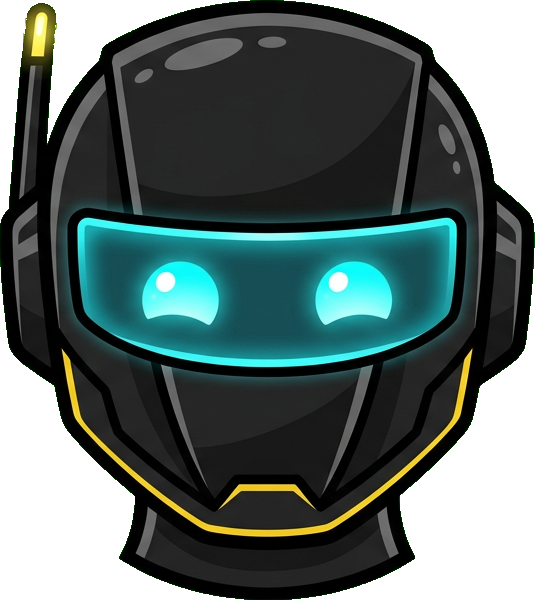
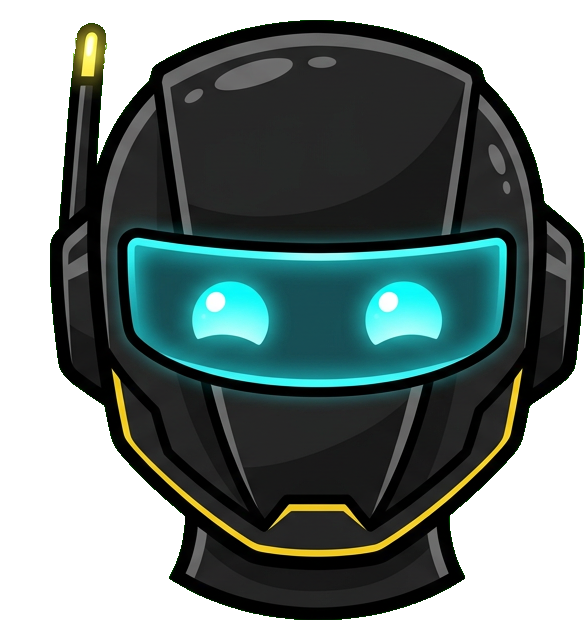
humanized delivery: [beat] pause system, antenna-vibration robot (3-frame, union-canvas aligned), endcard moved above sticker zone w/ translucent box, ep001 rewritten with beats, BRAINSTORM_VAULT (25 ideas), align_frames tool

diff --git a/src/tts.py b/src/tts.py
@@ -1,9 +1,17 @@
 """Per-character TTS via edge-tts + word boundaries -> voiceover.mp3 + timeline.json.
 
+HUMANIZING DELIVERY (boss spec: "voice too robotic — needs unexpected pauses,
+long/short sounds"):
+- scripts may write [beat] inside any line -> a natural 0.28-0.48s pause is
+  inserted at that exact point (mid-sentence stops feel human)
+- ellipses (…) and stretched spellings ("ohhh", "waaaait") also work —
+  edge-tts interprets them naturally
+- per-line emotion shifts rate/pitch on top of the character's base voice
+
 timeline.json = [{speaker, start, end, text, words:[{w, start, end}]}]
-Every downstream stage (captions, stickers, render) reads this one clock.
+Every downstream stage (captions, stickers, render, strict QA) reads this clock.
 """
-import asyncio, json, subprocess, sys
+import asyncio, json, random, subprocess, sys
 from pathlib import Path
 
 sys.path.insert(0, str(Path(__file__).resolve().parent))
@@ -11,7 +19,7 @@ import config
 import edge_tts
 
 TICK = 1e7  # edge-tts offsets are 100ns ticks
-GAP_S = 0.28  # breathing room between speakers (feels human, not machine-gun)
+GAP_S = 0.28  # breathing room between speakers
 
 
 def _run(cmd):
@@ -27,11 +35,16 @@ def _dur(path):
     return float(json.loads(p.stdout)["format"]["duration"])
 
 
+def _silence(dur, path):
+    _run(["ffmpeg", "-y", "-f", "lavfi", "-i", "anullsrc=r=24000:cl=mono",
+          "-t", f"{dur:.2f}", "-b:a", "48k", str(path)])
+
+
 def _shift(base, delta, unit, clamp):
     """'+6%' + '+18%' -> '+24%'; '-2Hz' + '+25Hz' -> '+23Hz'"""
     b, d = int(base.rstrip(unit)), int(delta.rstrip(unit))
     v = max(-clamp, min(clamp, b + d))
-    return f"{v:+d}%".replace("%", unit) if unit == "Hz" else f"{v:+d}%"
+    return f"{v:+d}{unit}"
 
 
 async def _synth_line(text, voice, rate, pitch, out_path):
@@ -53,7 +66,7 @@ def synth_episode(lines, workdir, lang="en"):
     """lines = [{speaker, text, emotion?}] -> (voice.mp3, timeline.json)."""
     workdir = Path(workdir); workdir.mkdir(parents=True, exist_ok=True)
     swaps = config.LANG_SWAPS.get(lang, {})
-    timeline, parts = [], []
+    timeline, per_line = [], []
     t_cursor = 0.15
     for i, line in enumerate(lines):
         sid = line["speaker"]
@@ -66,42 +79,54 @@ def synth_episode(lines, workdir, lang="en"):
         rate = _shift(char["rate"], emo_rate, "%", clamp=50)
         pitch = _shift(char["pitch"], emo_pitch, "Hz", clamp=60)
         print(f"[tts] line {i + 1:02d} {sid:<8} -> {voice} "
-              f"rate={rate} pitch={pitch} emo={line.get('emotion', 'neutral')}")
-        mp3 = workdir / f"line_{i:02d}.mp3"
-        words = asyncio.run(_synth_line(
-            line["text"], voice, rate, pitch, mp3))
-        d = _dur(mp3)
+              f"emo={line.get('emotion', 'neutral')}")
+        raw = line["text"]
+        segs = [s.strip() for s in raw.split("[beat]") if s.strip()]
+        line_words, seg_cursor, entries = [], 0.0, []
+        for k, seg in enumerate(segs):
+            mp3 = workdir / f"line_{i:02d}_{k:02d}.mp3"
+            words = asyncio.run(_synth_line(seg, voice, rate, pitch, mp3))
+            d = _dur(mp3)
+            line_words += [{"w": w["w"],
+                            "start": round(t_cursor + seg_cursor + w["start"], 3),
+                            "end": round(t_cursor + seg_cursor + w["end"], 3)}
+                           for w in words]
+            entries.append(mp3)
+            seg_cursor += d
+            if k < len(segs) - 1:  # [beat] = humanizing mid-sentence pause
+                gap = random.uniform(0.28, 0.48)
+                sil = workdir / f"beat_{i:02d}_{k:02d}.mp3"
+                _silence(gap, sil)
+                entries.append(sil)
+                seg_cursor += gap
+        per_line.append(entries)
         timeline.append({
-            "speaker": sid, "name": char["name"], "text": line["text"],
-            "start": round(t_cursor, 3), "end": round(t_cursor + d, 3),
-            "words": [{"w": w["w"], "start": round(t_cursor + w["start"], 3),
-                       "end": round(t_cursor + w["end"], 3)} for w in words],
+            "speaker": sid, "name": char["name"],
+            "text": raw.replace("[beat] ", "").replace("[beat]", ""),
+            "start": round(t_cursor, 3), "end": round(t_cursor + seg_cursor, 3),
+            "words": line_words,
         })
-        parts.append(mp3)
-        t_cursor += d + GAP_S
+        t_cursor += seg_cursor + GAP_S
     total = t_cursor
 
-    # silence gap file matched to edge-tts mp3 format (24kHz mono)
     sil = workdir / "sil.mp3"
-    _run(["ffmpeg", "-y", "-f", "lavfi", "-i", "anullsrc=r=24000:cl=mono",
-          "-t", str(GAP_S), "-b:a", "48k", str(sil)])
-    lst = workdir / "concat.txt"
+    _silence(GAP_S, sil)
     rows = []
-    for i, p in enumerate(parts):
-        rows.append(f"file '{p.name}'")
-        if i < len(parts) - 1:
+    for li, lst in enumerate(per_line):
+        rows += [f"file '{e.name}'" for e in lst]
+        if li < len(per_line) - 1:
             rows.append(f"file '{sil.name}'")
-    lst.write_text("\n".join(rows))
+    (workdir / "concat.txt").write_text("\n".join(rows))
     voice_path = workdir / "voice.mp3"
-    _run(["ffmpeg", "-y", "-f", "concat", "-safe", "0", "-i", str(lst),
-          "-c", "copy", str(voice_path)])
+    _run(["ffmpeg", "-y", "-f", "concat", "-safe", "0", "-i",
+          str(workdir / "concat.txt"), "-c", "copy", str(voice_path)])
 
-    # 0.4s head + 1.0s tail so the last word + CTA don't clip
     (workdir / "timeline.json").write_text(json.dumps(
         {"total_s": round(total + 0.6, 2), "lang": lang, "lines": timeline},
         indent=1))
     print(f"[tts] {len(lines)} lines, {total:.1f}s voiceover, "
-          f"{sum(len(t['words']) for t in timeline)} word boundaries")
+          f"{sum(len(t['words']) for t in timeline)} word boundaries, "
+          f"{sum(1 for l in lines if '[beat]' in l['text'])} beat pauses")
     return voice_path, workdir / "timeline.json"
 
 

diff --git a/src/render.py b/src/render.py
@@ -157,21 +157,24 @@ def render(workdir, out_path):
                        config.LAYOUT["sticker_x"], y_expr,
                        _enable_expr(windows[sid])))
 
-    # robot narrator: bob + slide + blink (two frame variants)
+    # robot narrator: bob + slide + blink + ANTENNA VIBRATION while talking
+    # (3-frame system: open / antenna-tilt / blink — flicker = vibration)
     if has_robot:
         w = windows[R["sid"]]
         h_scaled = pos_for(ROBOT_DIR / "robot.png", R["w"])
         base_y = config.SHORT["h"] - R["bottom_gap"] - h_scaled
         bob = (f"{base_y}+{R['bob_px']}*sin(2*PI*t/{R['bob_period_s']})")
         y_expr = bob + "".join("+" + t for t in _slide_terms(w, R))
-        wen = _enable_expr(w)
-        blink = f"lt(mod(t\\,{R['blink_period_s']})\\,{R['blink_dur_s']})"
-        # open eyes except during blink slices
+        talk = _enable_expr(w)
+        flicker = (f"lt(mod(t,{R['talk_flicker_period_s']}),"
+                   f"{R['talk_flicker_on_s']})")
+        blink = f"lt(mod(t,{R['blink_period_s']}),{R['blink_dur_s']})"
         passes.append((ROBOT_DIR / "robot.png", R["w"], R["x"], y_expr,
-                       f"if({blink}\\,0\\,{wen})"))
-        # blink frame only during blink slices inside speaking windows
+                       f"if({talk},if({flicker},0,if({blink},0,1)),0)"))
+        passes.append((ROBOT_DIR / "robot_antenna.png", R["w"], R["x"], y_expr,
+                       f"if({talk},if({flicker},if({blink},0,1),0),0)"))
         passes.append((ROBOT_DIR / "robot_blink.png", R["w"], R["x"], y_expr,
-                       f"if({blink}\\,{wen}\\,0)"))
+                       f"if({talk},if({blink},1,0),0)"))
 
     for i, (png, w, x, y_expr, enable) in enumerate(passes):
         nxt = workdir / f"tmp_stk{i}.mp4"

diff --git a/scripts/align_frames.py b/scripts/align_frames.py
@@ -1,0 +1,34 @@
+"""Align robot frames to a shared canvas (union bbox) so the flicker animation
+only moves the antenna — head stays pixel-still."""
+import sys
+from pathlib import Path
+from PIL import Image
+
+sys.path.insert(0, str(Path(__file__).resolve().parent.parent / "src"))
+import config  # noqa: F401  (paths)
+from chroma import key
+
+RAW = config.ASSETS / "robot"
+OUT = config.ASSETS / "robot_keyed"
+FRAMES = ["robot", "robot_blink", "robot_antenna"]
+
+
+def main():
+    OUT.mkdir(parents=True, exist_ok=True)
+    imgs = {}
+    for f in FRAMES:
+        im = Image.open(RAW / f"{f}_raw.png").convert("RGB")
+        imgs[f] = key(im)  # keyed, uncropped (full canvas)
+
+    # union bbox across all frames
+    boxes = [im.getchannel("A").getbbox() for im in imgs.values()]
+    box = (min(b[0] for b in boxes), min(b[1] for b in boxes),
+           max(b[2] for b in boxes), max(b[3] for b in boxes))
+    for f, im in imgs.items():
+        im.crop(box).save(OUT / f"{f}.png")
+        print(f"{f}: {im.size} -> union crop {box} -> {(box[2]-box[0], box[3]-box[1])}")
+    print("all frames share identical canvas ✅")
+
+
+if __name__ == "__main__":
+    main()

diff --git a/src/ass.py b/src/ass.py
@@ -75,12 +75,13 @@ Format: Layer, Start, End, Style, Name, MarginL, MarginR, MarginV, Effect, Text
             events.append(f"Dialogue: 0,{_ts(start)},{_ts(end)},Kara,,0,0,0,,"
                           f"{dot}{text.strip()}")
 
-    # punchy end-card: big yellow center text, holds LONG enough to land
+    # punchy end-card: yellow text + translucent dark box, ABOVE sticker zone
+    # (boss bug report: it used to hide behind the sticker)
     if endcard:
         total = tl["total_s"]
         hold = config.LAYOUT.get("endcard_hold_s", 3.5)
-        ec = (f"{{\\an5\\pos({w // 2},985)\\fs{L['endcard_font']}\\b1"
-              f"\\fad(200,150)\\c&H3DD9FF&\\3c&H00202020}}{endcard}")
+        ec = (f"{{\\an5\\pos({w // 2},860)\\fs82\\b1\\fad(200,150)"
+              f"\\c&H3DD9FF&\\3c&H000000&\\3a&H50&\\bord12\\bs3}}{endcard}")
         events.append(f"Dialogue: 1,{_ts(max(0, total - hold))},{_ts(total - 0.1)},"
                       f"Kara,,0,0,0,,{ec}")
 

diff --git a/src/config.py b/src/config.py
@@ -99,7 +99,7 @@ CAPTION_FONT_MAP = {
     "bn": ("Hind Siliguri", 84),
 }
 
-# ── The Robot — NixSpeechFav mascot narrator (bottom-left, animated) ────────
+# ── The Robot — NixSpeechFav mascot narrator (MAIN character of the channel) ─
 ROBOT = dict(
     sid="narrator",
     w=600,                      # mascot is slightly bigger than characters
@@ -107,6 +107,8 @@ ROBOT = dict(
     bob_px=13, bob_period_s=2.7,       # idle floating
     blink_period_s=3.7, blink_dur_s=0.14,  # eyes-open/blink frame swap
     slide_px=320, slide_s=0.22,        # slide-in from below (all stickers)
+    talk_flicker_period_s=0.34,        # antenna vibration WHILE TALKING:
+    talk_flicker_on_s=0.17,            # open/tilt frame swap every 0.17s
 )
 
 # ── Story topic pool — ALL of life, randomized (boss law: never one theme) ──
